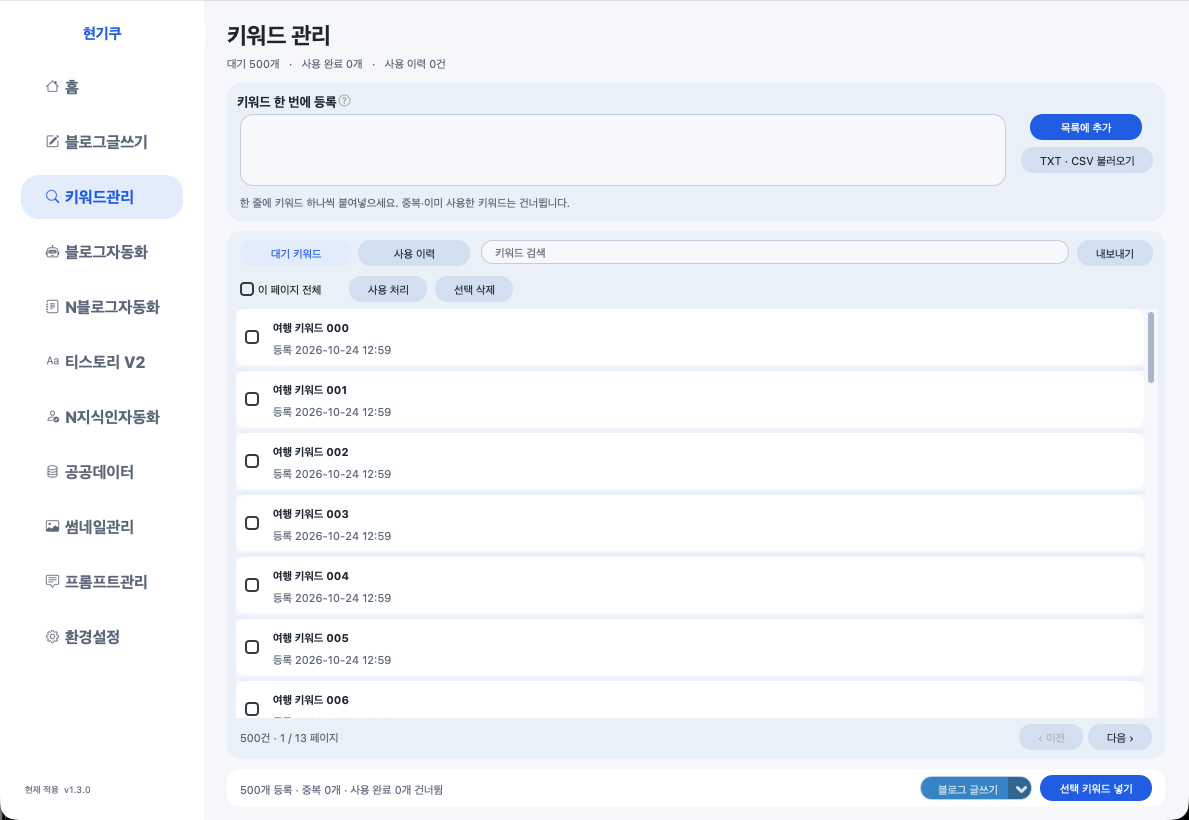
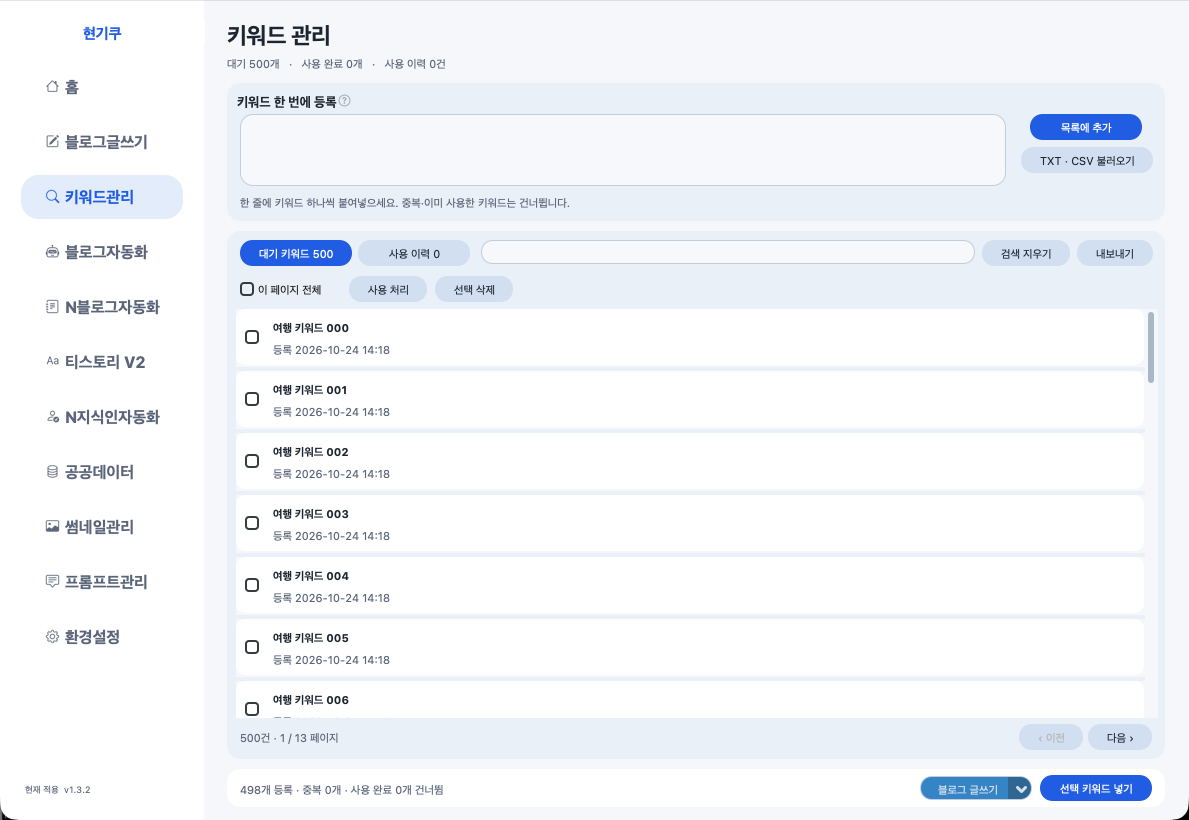
fix: reveal newly registered keywords in the pending inbox

diff --git a/keyword_library_ui.py b/keyword_library_ui.py
@@ -66,7 +66,9 @@ class KeywordLibraryPage(ctk.CTkFrame):
         self.search = InputEntry(tabs, placeholder_text="키워드 검색")
         self.search.grid(row=0, column=2, sticky="ew")
         self.search.bind("<KeyRelease>", self.search_changed)
-        self.button(tabs, "내보내기", self.export_file, width=90).grid(row=0, column=3, padx=(8, 0))
+        self.clear_search_button = self.button(tabs, "검색 지우기", self.clear_search, width=80)
+        self.clear_search_button.grid(row=0, column=3, padx=(8, 0))
+        self.button(tabs, "내보내기", self.export_file, width=90).grid(row=0, column=4, padx=(8, 0))
         actions = ctk.CTkFrame(card, fg_color="transparent")
         actions.grid(row=1, column=0, padx=16, pady=(0, 8), sticky="ew")
         self.select_all = ctk.CTkCheckBox(actions, text="이 페이지 전체", command=self.select_page,
@@ -142,6 +144,8 @@ class KeywordLibraryPage(ctk.CTkFrame):
         def load():
             counts = self.store.counts()
             rows, total = self.store.list(history=self.history, search=self.search.get(), offset=self.offset, limit=self.PAGE_SIZE)
+            if not total:
+                self.offset = 0
             if total and not rows:
                 self.offset = (total - 1) // self.PAGE_SIZE * self.PAGE_SIZE
                 rows, total = self.store.list(history=self.history, search=self.search.get(), offset=self.offset, limit=self.PAGE_SIZE)
@@ -176,23 +180,36 @@ class KeywordLibraryPage(ctk.CTkFrame):
                     self.button(line, "발행글 보기", lambda url=row["url"]: self.app._open_source_url(url), width=90).grid(
                         row=0, column=2, rowspan=2, padx=12)
             if not rows:
-                ctk.CTkLabel(self.list_frame, text="검색 결과가 없습니다." if self.search.get() else
-                             "아직 사용한 키워드가 없습니다." if self.history else "등록할 키워드를 위에 붙여넣어 주세요.",
+                ctk.CTkLabel(self.list_frame, text="검색 결과가 없습니다. ‘검색 지우기’를 누르면 전체 목록을 볼 수 있습니다." if self.search.get() else
+                             "아직 사용한 키워드가 없습니다. 등록한 키워드는 ‘대기 키워드’에서 확인하세요." if self.history else "등록할 키워드를 위에 붙여넣어 주세요.",
+                             wraplength=480,
                              text_color=self.palette["muted"]).grid(row=0, column=0, pady=40)
             self.page_label.configure(text=f"{total:,}건 · {self.offset // self.PAGE_SIZE + 1} / {max(1, (total + self.PAGE_SIZE - 1) // self.PAGE_SIZE)} 페이지")
             self.previous.configure(state="normal" if self.offset else "disabled")
             self.next.configure(state="normal" if self.offset + self.PAGE_SIZE < total else "disabled")
-            for button, active in ((self.pending_tab, not self.history), (self.history_tab, self.history)):
-                button.configure(fg_color=self.palette["selected"] if active else self.palette["button"],
-                                 text_color=self.palette["accent"] if active else self.palette["text"])
+            for button, active, label, count in (
+                (self.pending_tab, not self.history, "대기 키워드", counts["pending"]),
+                (self.history_tab, self.history, "사용 이력", counts["history"]),
+            ):
+                button.configure(text=f"{label} {count:,}",
+                                 fg_color=self.palette["accent"] if active else self.palette["button"],
+                                 text_color="#ffffff" if active else self.palette["text"])
         self.safe(load)
 
     def add_values(self, values):
         result = self.safe(lambda: self.store.add(values))
         if result is None:
             return False
+        if not any(result[key] for key in ("added", "duplicate", "used")):
+            self.notice("추가할 키워드를 한 줄에 하나씩 입력해 주세요.")
+            return False
+        # Registration must reveal the pending inbox, not leave new entries
+        # hidden behind an old history tab, search or pagination/scroll state.
+        offset = self.safe(lambda: self.store.pending_page_offset(result["first_added_id"], self.PAGE_SIZE)) or 0
+        self.clear_search(refresh=False)
+        self.switch(False, offset=offset)
+        self.list_frame._parent_canvas.yview_moveto(0)
         self.notice(f"{result['added']:,}개 등록 · 중복 {result['duplicate']:,}개 · 사용 완료 {result['used']:,}개 건너뜀")
-        self.refresh()
         return True
 
     def add_input(self):
@@ -214,8 +231,8 @@ class KeywordLibraryPage(ctk.CTkFrame):
         if path and self.safe(lambda: (self.store.export(Path(path), history=self.history), True)):
             self.notice("검색·페이지와 관계없이 현재 탭의 전체 목록을 내보냈습니다.")
 
-    def switch(self, history):
-        self.history, self.offset = history, 0
+    def switch(self, history, *, offset=0):
+        self.history, self.offset = history, offset
         self.used_button.pack_forget()
         self.delete_button.pack_forget()
         self.restore_button.pack_forget()
@@ -226,6 +243,16 @@ class KeywordLibraryPage(ctk.CTkFrame):
             self.delete_button.pack(side="left", padx=4)
         self.write_button.configure(state="disabled" if history else "normal")
         self.refresh()
+
+    def clear_search(self, *, refresh=True):
+        if self._search_job is not None:
+            self.after_cancel(self._search_job)
+            self._search_job = None
+        self.search.delete(0, "end")
+        self.offset = 0
+        if refresh:
+            self.refresh()
+            self.list_frame._parent_canvas.yview_moveto(0)
 
     def search_changed(self, _event=None):
         if self._search_job is not None:

diff --git a/tools/check_keyword_library_ui.py b/tools/check_keyword_library_ui.py
@@ -74,7 +74,23 @@ def main():
             panel = app.keyword_library_panel
             assert panel is not None
             assert int(app.keywords_nav_button.grid_info()["row"]) == 3
-            panel.input.insert("1.0", "\n".join(f"여행 키워드 {i:03d}" for i in range(500)))
+            # Regression: the user's two entries were saved but hidden behind
+            # a previous history tab and search. Registration reveals them.
+            panel.history_tab.invoke()
+            panel.search.insert(0, "일치하지 않는 검색어")
+            panel.search_changed()
+            panel.input.insert("1.0", "여행 키워드 000\n여행 키워드 001")
+            panel.add_input()
+            settle()
+            assert panel.store.counts()["pending"] == 2
+            assert [row["keyword"] for row in panel.rows] == ["여행 키워드 000", "여행 키워드 001"]
+            assert not panel.history and not panel.search.get() and panel.offset == 0
+            assert panel._search_job is None
+            assert panel.input.get("1.0", "end-1c") == ""
+            assert panel.pending_tab.cget("text") == "대기 키워드 2"
+            assert panel.pending_tab.cget("fg_color") == panel.palette["accent"]
+            screenshot("two-added")
+            panel.input.insert("1.0", "\n".join(f"여행 키워드 {i:03d}" for i in range(2, 500)))
             panel.add_input()
             settle()
             assert panel.store.counts()["pending"] == 500
@@ -150,6 +166,26 @@ def main():
             with patch.object(module.filedialog, "asksaveasfilename", return_value=str(export)):
                 panel.export_file()
             assert len(export.read_text(encoding="utf-8").splitlines()) == 499
+            # Import from an empty/filtered history view must also reveal the
+            # new rows even when the inbox spans many pages.
+            panel.history_tab.invoke()
+            panel.search.insert(0, "없는 키워드")
+            panel.apply_search()
+            imported = Path(directory) / "new.txt"
+            imported.write_text("새 등록 하나\n새 등록 둘", encoding="utf-8")
+            with patch.object(module.filedialog, "askopenfilename", return_value=str(imported)):
+                panel.import_file()
+            settle()
+            assert not panel.history and not panel.search.get()
+            assert panel.offset == 480
+            assert {"새 등록 하나", "새 등록 둘"}.issubset({row["keyword"] for row in panel.rows})
+            assert panel.list_frame._parent_canvas.yview()[0] == 0
+            panel.search.insert(0, "없는 키워드")
+            panel.apply_search()
+            assert not panel.rows and panel.offset == 0
+            panel.clear_search_button.invoke()
+            assert panel.rows and not panel.search.get() and panel.offset == 0
+            screenshot("registration-reset")
             # Narrow window: footer, navigation and all action controls stay visible.
             app.geometry("1050x850")
             settle()
@@ -165,7 +201,7 @@ def main():
             app._switch_page("writing")
             settle()
             assert not module.modal_dimmer(app).active
-            print(f"{sys.platform} {args.theme}: 500 keywords, pagination, both writing modes, history/restore, manual use, export, narrow UI and help passed", flush=True)
+            print(f"{sys.platform} {args.theme}: two-entry registration, filtered import, 500 keywords, pagination, both writing modes, history/restore, manual use, export, narrow UI and help passed", flush=True)
         finally:
             app.destroy()
 

diff --git a/keyword_library.py b/keyword_library.py
@@ -83,7 +83,7 @@ class KeywordLibrary:
         values = [clean_keyword(value) for value in values if clean_keyword(value)]
         if len(values) > 100_000 or any(len(value) > 500 for value in values):
             raise ValueError("한 번에 100,000개까지, 키워드 하나당 500자까지 등록할 수 있습니다.")
-        result = {"added": 0, "duplicate": 0, "used": 0}
+        result = {"added": 0, "duplicate": 0, "used": 0, "first_added_id": None}
         with self._connection() as db:
             db.execute("BEGIN IMMEDIATE")
             for value in values:
@@ -94,11 +94,24 @@ class KeywordLibrary:
                 if row:
                     db.execute("UPDATE keywords SET status='pending', keyword=?, added_at=? WHERE id=?",
                                (value, self._now(), row["id"]))
+                    item_id = row["id"]
                 else:
-                    db.execute("INSERT INTO keywords(key, keyword, added_at) VALUES (?, ?, ?)",
-                               (keyword_key(value), value, self._now()))
+                    item_id = db.execute("INSERT INTO keywords(key, keyword, added_at) VALUES (?, ?, ?)",
+                                         (keyword_key(value), value, self._now())).lastrowid
+                if result["first_added_id"] is None:
+                    result["first_added_id"] = item_id
                 result["added"] += 1
         return result
+
+    def pending_page_offset(self, item_id, page_size=40) -> int:
+        """Locate an added/restored row without reordering the existing inbox."""
+        if item_id is None:
+            return 0
+        with self._connection() as db:
+            position = db.execute("SELECT COUNT(*) FROM keywords WHERE status='pending' AND id < ?",
+                                  (int(item_id),)).fetchone()[0]
+        page_size = max(1, int(page_size))
+        return position // page_size * page_size
 
     def counts(self) -> dict:
         with self._connection() as db:

diff --git a/tests/test_keyword_library.py b/tests/test_keyword_library.py
@@ -21,7 +21,7 @@ class KeywordLibraryTests(unittest.TestCase):
 
     def test_bulk_500_keywords_persist_and_search_paginate(self):
         result = self.store.add([f"키워드 {i}" for i in range(500)] + ["키워드 0", "", "  "])
-        self.assertEqual(result, {"added": 500, "duplicate": 1, "used": 0})
+        self.assertEqual(result, {"added": 500, "duplicate": 1, "used": 0, "first_added_id": 1})
         reopened = KeywordLibrary(self.path)
         rows, total = reopened.list(offset=480, limit=40)
         self.assertEqual(total, 500)
@@ -29,6 +29,20 @@ class KeywordLibraryTests(unittest.TestCase):
         self.assertEqual(rows[0]["keyword"], "키워드 480")
         self.assertEqual(reopened.counts()["pending"], 500)
         self.assertEqual(reopened.list(search="워드 49")[1], 11)
+
+    def test_registration_locates_first_added_or_readded_pending_page(self):
+        initial = self.store.add([f"키워드 {i}" for i in range(85)])
+        self.assertEqual(self.store.pending_page_offset(initial["first_added_id"]), 0)
+        added = self.store.add(["키워드 0", "새 키워드 1", "새 키워드 2"])
+        offset = self.store.pending_page_offset(added["first_added_id"])
+        self.assertEqual(offset, 80)
+        self.assertIn("새 키워드 1", [row["keyword"] for row in self.store.list(offset=offset)[0]])
+        self.store.change_status([1], "removed")
+        restored = self.store.add(["키워드 0"])
+        self.assertEqual(restored["first_added_id"], 1)
+        self.assertEqual(self.store.pending_page_offset(restored["first_added_id"]), 0)
+        self.assertIsNone(self.store.add(["키워드 0"])["first_added_id"])
+        self.assertEqual(self.store.pending_page_offset(None), 0)
 
     def test_normalization_preserves_meaningful_numbers_and_punctuation(self):
         self.assertEqual(keyword_key(" ＡＢＣ   여행\t추천 "), "abc 여행 추천")

diff --git a/menu_help.py b/menu_help.py
@@ -8,7 +8,7 @@ def guide(title, stage, intro, steps, note):
 
 MENU_GUIDES = {
     "keywords.library": guide("키워드 한 번에 등록", "키워드 관리 · 대기 목록과 이력", "여러 키워드를 저장하고 실제 발행한 키워드를 구분해요.", (
-        ("한 번에 등록하세요", "한 줄에 키워드 하나씩 붙여넣거나 TXT·CSV 파일을 불러오세요. 중복·이미 사용한 키워드는 건너뛰어요."),
+        ("한 번에 등록하세요", "한 줄에 키워드 하나씩 붙여넣고 [목록에 추가]를 누르거나 TXT·CSV 파일을 불러오세요. 등록 후 검색을 지우고 대기 목록에서 새 키워드를 보여 줘요. 중복·이미 사용한 키워드는 건너뛰어요."),
         ("글쓰기에 넣으세요", "키워드를 하나 선택한 뒤 블로그 글쓰기 또는 티스토리 V2로 넣으세요. 넣는 것만으로 작업이 시작되지 않아요. 글쓰기에서 블로그·설정을 확인하고 시작하세요."),
         ("사용 이력을 확인하세요", "발행이 확인된 키워드는 대기에서 빠지고 사용 이력에 남아요. 사용 처리로 직접 옮기거나 이력에서 대기로 복원할 수도 있어요. 내보내기는 현재 탭 전체 목록을 저장해요.")),
         "이 Mac 또는 PC에 저장되는 목록이며 다른 컴퓨터와 자동 공유되지 않아요. 실패·중단·임시저장은 사용 처리하지 않아요. 검토 발행은 직접 발행 완료를 확인한 뒤 반영돼요."),

diff --git a/history_data.py b/history_data.py
@@ -11,6 +11,19 @@ from __future__ import annotations
 BLOG_HELPER_HISTORY: tuple[dict[str, object], ...] = (
     {
         "date": "2026-10-24",
+        "version": "v1.3.2",
+        "category": "키워드 목록 표시",
+        "title": "등록한 키워드를 대기 목록에서 바로 확인",
+        "request": "키워드 2개를 등록했는데 대기 목록에서 보이지 않는 현상을 수정해달라는 요청",
+        "changes": (
+            "붙여넣기·파일 등록 후 사용 이력 탭과 검색 필터를 해제하고 대기 목록으로 자동 이동",
+            "기존 목록 순서를 유지하면서 새로 등록한 키워드가 있는 페이지와 맨 위 스크롤 위치를 표시",
+            "대기·사용 이력 탭에 개수를 표시하고 선택 탭 강조, 검색 지우기 버튼과 빈 목록 안내 추가",
+            "기존 저장 키워드·사용 이력 보존, 두 키워드 등록·500개 페이지·검색 상태의 파일 등록 회귀 검사",
+        ),
+    },
+    {
+        "date": "2026-10-24",
         "version": "v1.3.1",
         "category": "키워드 관리",
         "title": "대량 키워드 저장·발행 성공 시 사용 이력 관리",
